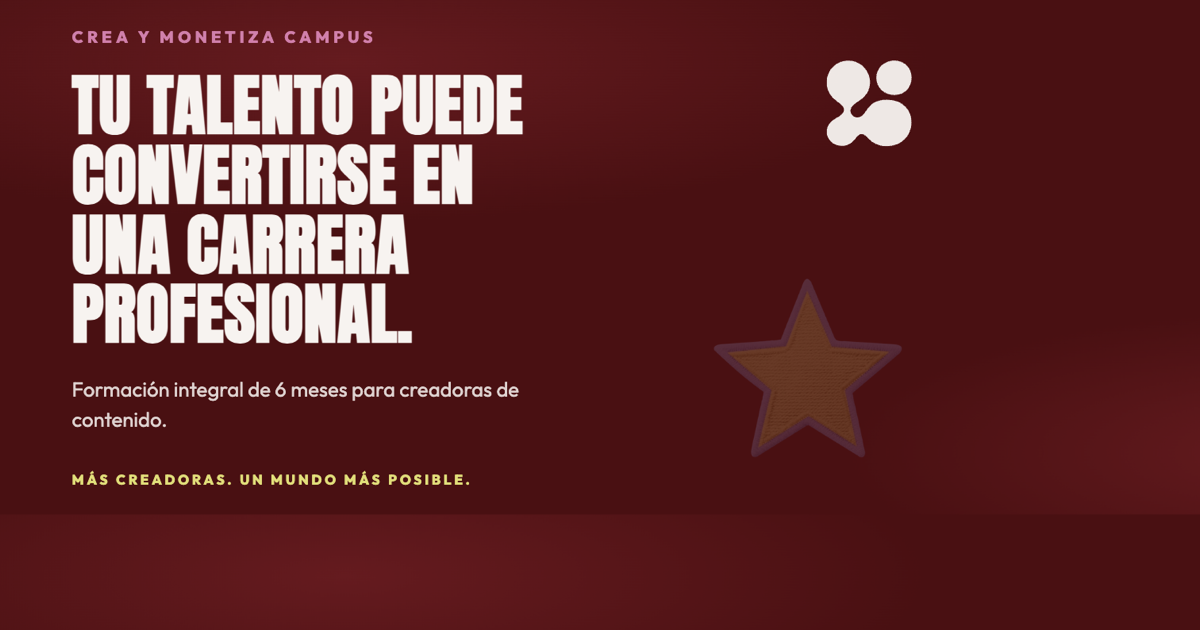
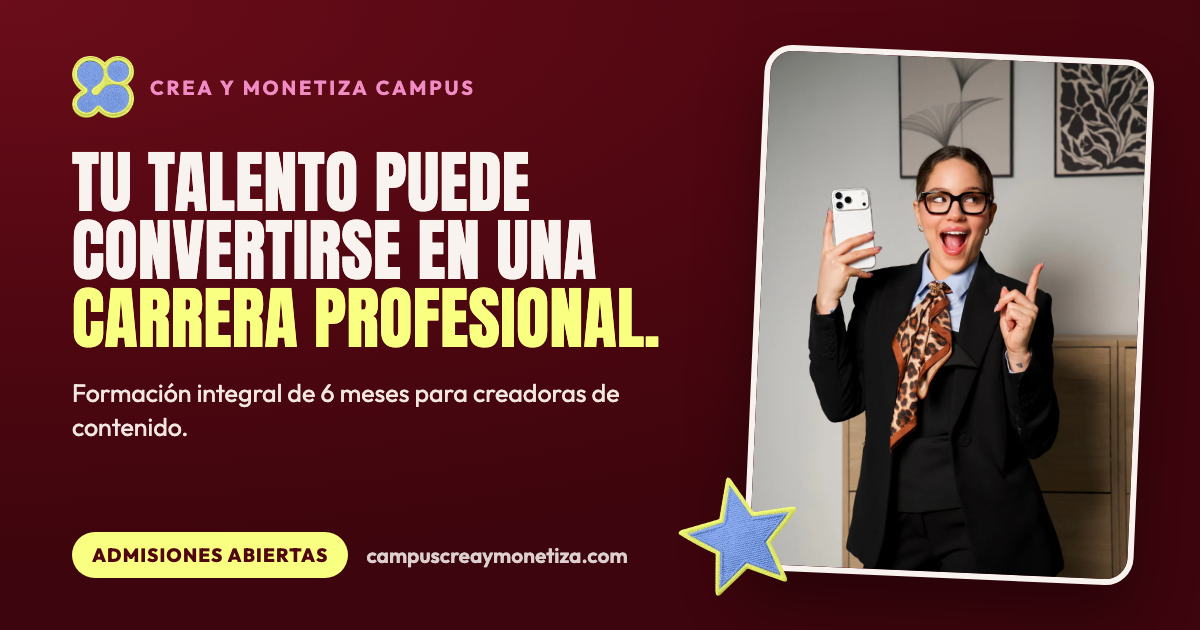
Vista previa al compartir: imagen nueva, íconos y metatags completas
Imagen 1200×630 con logo, titular, foto de Pierina, «Admisiones abiertas» y el
dominio (JPG de 100 KB, ?v=2 para saltar la caché de WhatsApp/Facebook).
og:image:type/alt/secure_url, twitter:image:alt, ícono de Apple con el logo
bordado sobre vino, íconos 192/512 y site.webmanifest.

diff --git a/index.html b/index.html
@@ -9,26 +9,34 @@
      web pública, así que se indexa. -->
 <meta name="robots" content="index, follow">
 <link rel="canonical" href="https://campuscreaymonetiza.com/">
-<meta property="og:title" content="Crea y Monetiza Campus — Admisiones">
+<meta property="og:title" content="Crea y Monetiza Campus · Tu talento puede convertirse en una carrera profesional">
 <meta property="og:description" content="Formación integral de 6 meses para creadoras de contenido: marca personal, UGC profesional, negocio, inteligencia artificial y monetización.">
 <meta property="og:type" content="website">
 <meta property="og:url" content="https://campuscreaymonetiza.com/">
 <meta property="og:locale" content="es_ES">
 <meta property="og:site_name" content="Crea y Monetiza Campus">
-<meta property="og:image" content="https://campuscreaymonetiza.com/assets/compartir.png">
+<!-- El ?v= obliga a WhatsApp/Facebook/LinkedIn a pedir la imagen otra vez: la
+     guardan en caché por URL. Súbelo cada vez que cambie compartir.jpg. -->
+<meta property="og:image" content="https://campuscreaymonetiza.com/assets/compartir.jpg?v=2">
+<meta property="og:image:secure_url" content="https://campuscreaymonetiza.com/assets/compartir.jpg?v=2">
+<meta property="og:image:type" content="image/jpeg">
 <meta property="og:image:width" content="1200">
 <meta property="og:image:height" content="630">
+<meta property="og:image:alt" content="Pierina, fundadora de Crea y Monetiza Campus, junto al titular «Tu talento puede convertirse en una carrera profesional». Admisiones abiertas.">
 <meta name="twitter:card" content="summary_large_image">
-<meta name="twitter:title" content="Crea y Monetiza Campus — Admisiones">
+<meta name="twitter:title" content="Crea y Monetiza Campus · Tu talento puede convertirse en una carrera profesional">
 <meta name="twitter:description" content="Formación integral de 6 meses para creadoras de contenido: marca personal, UGC profesional, negocio, inteligencia artificial y monetización.">
-<meta name="twitter:image" content="https://campuscreaymonetiza.com/assets/compartir.png">
+<meta name="twitter:image" content="https://campuscreaymonetiza.com/assets/compartir.jpg?v=2">
+<meta name="twitter:image:alt" content="Pierina, fundadora de Crea y Monetiza Campus, junto al titular «Tu talento puede convertirse en una carrera profesional».">
 <meta name="theme-color" content="#500711">
 <link rel="icon" href="favicon.svg" type="image/svg+xml">
 <!-- El .ico es el respaldo: el navegador pide /favicon.ico por su cuenta
      aunque haya un SVG declarado, y sin él dejaba un 404 en cada visita. -->
 <link rel="icon" href="favicon.ico" sizes="32x32">
-<link rel="apple-touch-icon" href="assets/icono-apple.png">
-<script type="application/ld+json">{"@context":"https://schema.org","@graph":[{"@type":"EducationalOrganization","@id":"https://campuscreaymonetiza.com/#campus","name":"Crea y Monetiza Campus","description":"Formación integral de 6 meses para creadoras de contenido: marca personal, UGC profesional, negocio, inteligencia artificial y monetización.","url":"https://campuscreaymonetiza.com/","logo":"https://campuscreaymonetiza.com/assets/icono-apple.png","image":"https://campuscreaymonetiza.com/assets/compartir.png","inLanguage":"es"},{"@type":"WebSite","@id":"https://campuscreaymonetiza.com/#sitio","url":"https://campuscreaymonetiza.com/","name":"Crea y Monetiza Campus","publisher":{"@id":"https://campuscreaymonetiza.com/#campus"},"inLanguage":"es"},{"@type":"FAQPage","mainEntity":[{"@type":"Question","name":"¿Necesito experiencia previa?","acceptedAnswer":{"@type":"Answer","text":"No necesitas tener una carrera consolidada como creadora para aplicar. Dentro del proceso de admisión evaluaremos tu punto de partida para entender si el Campus encaja contigo."}},{"@type":"Question","name":"¿Necesito tener muchos seguidores?","acceptedAnswer":{"@type":"Answer","text":"No. La formación trabaja tus habilidades, posicionamiento, estrategia y profesionalización. Tu número de seguidores no determina por sí solo tu capacidad para construir oportunidades."}},{"@type":"Question","name":"¿Puedo formar parte si vivo fuera de España?","acceptedAnswer":{"@type":"Answer","text":"Sí. El Campus está diseñado para recibir creadoras desde diferentes países."}},{"@type":"Question","name":"¿El Campus es online?","acceptedAnswer":{"@type":"Answer","text":"La formación y el acompañamiento principal se desarrollan online para que puedas avanzar desde donde estés. Además, pueden existir experiencias y encuentros presenciales vinculados al Campus."}},{"@type":"Question","name":"¿Cuánto dura?","acceptedAnswer":{"@type":"Answer","text":"Tu recorrido principal dentro del Campus tiene una duración de 6 meses."}},{"@type":"Question","name":"¿Tengo que hacer entregables?","acceptedAnswer":{"@type":"Answer","text":"Sí. Queremos que apliques lo aprendido durante el proceso, por eso diferentes materias incluyen ejercicios, implementación y entregables."}},{"@type":"Question","name":"¿Tengo que presentar un proyecto final?","acceptedAnswer":{"@type":"Answer","text":"Sí. Al finalizar tu recorrido desarrollarás tu Proyecto de Graduación, donde integrarás diferentes elementos que has construido durante tu formación."}},{"@type":"Question","name":"¿Hay acompañamiento?","acceptedAnswer":{"@type":"Answer","text":"Sí. El acompañamiento y seguimiento forman parte de la experiencia del Campus."}},{"@type":"Question","name":"¿Recibiré un certificado?","acceptedAnswer":{"@type":"Answer","text":"Al completar los requisitos del recorrido recibirás tu título como Creadora Profesional."}},{"@type":"Question","name":"¿Qué es el Banco de Oportunidades?","acceptedAnswer":{"@type":"Answer","text":"Es un espacio de recursos relacionados con marcas, agencias, plataformas y oportunidades que pueden ayudarte durante tu etapa de profesionalización."}},{"@type":"Question","name":"¿Cómo puedo entrar?","acceptedAnswer":{"@type":"Answer","text":"El primer paso es completar tu proceso de admisión y agendar una entrevista con nuestro equipo."}},{"@type":"Question","name":"¿Dónde puedo conocer las condiciones de acceso?","acceptedAnswer":{"@type":"Answer","text":"Todas las condiciones de incorporación se explican durante la entrevista de admisión una vez que conocemos tu situación y confirmamos que el Campus puede encajar contigo."}},{"@type":"Question","name":"¿Qué pasa si las admisiones están cerradas?","acceptedAnswer":{"@type":"Answer","text":"Puedes entrar al registro prioritario para recibir directamente las próximas fechas, convocatorias y novedades."}}]}]}</script>
+<link rel="apple-touch-icon" href="assets/icono-apple.png?v=2">
+<link rel="icon" href="assets/icono-192.png" sizes="192x192" type="image/png">
+<link rel="manifest" href="site.webmanifest">
+<script type="application/ld+json">{"@context":"https://schema.org","@graph":[{"@type":"EducationalOrganization","@id":"https://campuscreaymonetiza.com/#campus","name":"Crea y Monetiza Campus","description":"Formación integral de 6 meses para creadoras de contenido: marca personal, UGC profesional, negocio, inteligencia artificial y monetización.","url":"https://campuscreaymonetiza.com/","logo":"https://campuscreaymonetiza.com/assets/icono-512.png","image":"https://campuscreaymonetiza.com/assets/compartir.jpg","inLanguage":"es"},{"@type":"WebSite","@id":"https://campuscreaymonetiza.com/#sitio","url":"https://campuscreaymonetiza.com/","name":"Crea y Monetiza Campus","publisher":{"@id":"https://campuscreaymonetiza.com/#campus"},"inLanguage":"es"},{"@type":"FAQPage","mainEntity":[{"@type":"Question","name":"¿Necesito experiencia previa?","acceptedAnswer":{"@type":"Answer","text":"No necesitas tener una carrera consolidada como creadora para aplicar. Dentro del proceso de admisión evaluaremos tu punto de partida para entender si el Campus encaja contigo."}},{"@type":"Question","name":"¿Necesito tener muchos seguidores?","acceptedAnswer":{"@type":"Answer","text":"No. La formación trabaja tus habilidades, posicionamiento, estrategia y profesionalización. Tu número de seguidores no determina por sí solo tu capacidad para construir oportunidades."}},{"@type":"Question","name":"¿Puedo formar parte si vivo fuera de España?","acceptedAnswer":{"@type":"Answer","text":"Sí. El Campus está diseñado para recibir creadoras desde diferentes países."}},{"@type":"Question","name":"¿El Campus es online?","acceptedAnswer":{"@type":"Answer","text":"La formación y el acompañamiento principal se desarrollan online para que puedas avanzar desde donde estés. Además, pueden existir experiencias y encuentros presenciales vinculados al Campus."}},{"@type":"Question","name":"¿Cuánto dura?","acceptedAnswer":{"@type":"Answer","text":"Tu recorrido principal dentro del Campus tiene una duración de 6 meses."}},{"@type":"Question","name":"¿Tengo que hacer entregables?","acceptedAnswer":{"@type":"Answer","text":"Sí. Queremos que apliques lo aprendido durante el proceso, por eso diferentes materias incluyen ejercicios, implementación y entregables."}},{"@type":"Question","name":"¿Tengo que presentar un proyecto final?","acceptedAnswer":{"@type":"Answer","text":"Sí. Al finalizar tu recorrido desarrollarás tu Proyecto de Graduación, donde integrarás diferentes elementos que has construido durante tu formación."}},{"@type":"Question","name":"¿Hay acompañamiento?","acceptedAnswer":{"@type":"Answer","text":"Sí. El acompañamiento y seguimiento forman parte de la experiencia del Campus."}},{"@type":"Question","name":"¿Recibiré un certificado?","acceptedAnswer":{"@type":"Answer","text":"Al completar los requisitos del recorrido recibirás tu título como Creadora Profesional."}},{"@type":"Question","name":"¿Qué es el Banco de Oportunidades?","acceptedAnswer":{"@type":"Answer","text":"Es un espacio de recursos relacionados con marcas, agencias, plataformas y oportunidades que pueden ayudarte durante tu etapa de profesionalización."}},{"@type":"Question","name":"¿Cómo puedo entrar?","acceptedAnswer":{"@type":"Answer","text":"El primer paso es completar tu proceso de admisión y agendar una entrevista con nuestro equipo."}},{"@type":"Question","name":"¿Dónde puedo conocer las condiciones de acceso?","acceptedAnswer":{"@type":"Answer","text":"Todas las condiciones de incorporación se explican durante la entrevista de admisión una vez que conocemos tu situación y confirmamos que el Campus puede encajar contigo."}},{"@type":"Question","name":"¿Qué pasa si las admisiones están cerradas?","acceptedAnswer":{"@type":"Answer","text":"Puedes entrar al registro prioritario para recibir directamente las próximas fechas, convocatorias y novedades."}}]}]}</script>
 <!-- Las tipografías se sirven desde este mismo dominio (ver
      herramientas/traer-fuentes.py). Pedírselas a Google metía dos dominios
      ajenos —resolver DNS y abrir TLS en los dos— antes de poder pintar el
